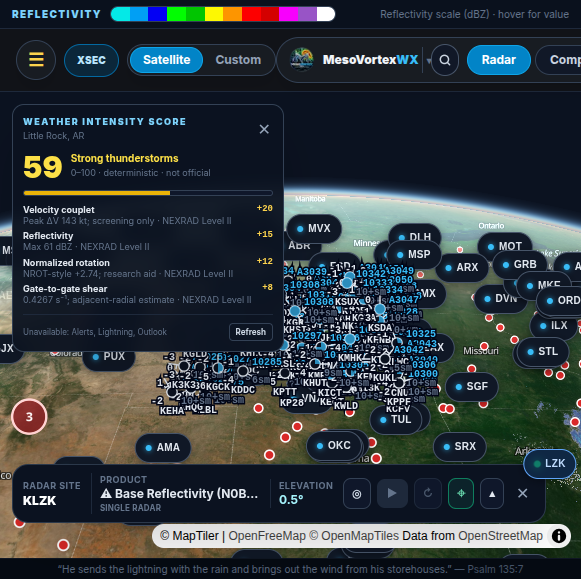
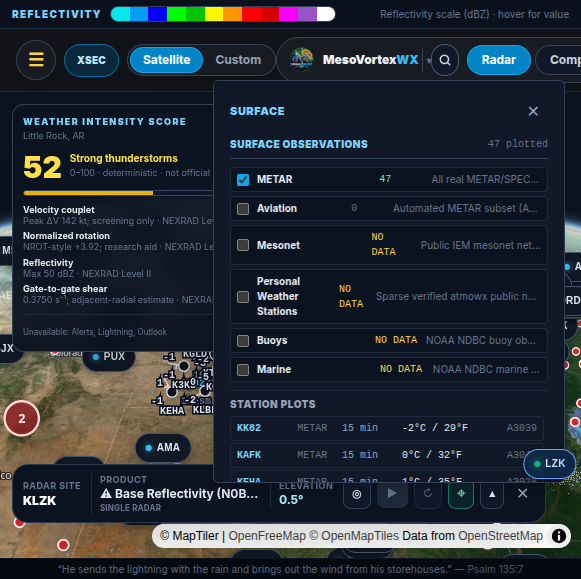
Fix AviationWeather bbox 400: round bbox and send zoom/density

diff --git a/lib/metar/surface-feed.ts b/lib/metar/surface-feed.ts
@@ -60,8 +60,16 @@ export function buildUpstreamUrl(query: SurfaceQuery): string | null {
   const url = new URL('https://aviationweather.gov/api/data/metar');
   url.searchParams.set('format', 'geojson');
   url.searchParams.set('hours', String(normalizedHours(query.hours)));
-  if (ids) url.searchParams.set('ids', ids.join(','));
-  if (bbox) url.searchParams.set('bbox', bbox.join(','));
+  if (ids) {
+    url.searchParams.set('ids', ids.join(','));
+  }
+  if (bbox) {
+    // AviationWeather requires bbox + zoom/density and rejects float noise
+    // (e.g. 31.700000000000003), so round to 3 decimals and send both params.
+    url.searchParams.set('bbox', bbox.map((n) => Number(n.toFixed(3))).join(','));
+    url.searchParams.set('zoom', '6');
+    url.searchParams.set('density', '1');
+  }
   return url.toString();
 }
 

diff --git a/docs/phase4c-surface-observations.md b/docs/phase4c-surface-observations.md
@@ -28,6 +28,10 @@ Optional fields:
 - **Visibility / pressure tendency / sea-level pressure** are shown only where reported. Pressure tendency is NDBC `PTDY` only; it is never inferred for METAR/IEM/PWS.
 - Derived relative humidity is explicitly labeled `87% (derived)` and computed only from reported temperature and dew point.
 
+### Upstream API note (AviationWeather bbox contract)
+
+AviationWeather tightened `/api/data/metar`: a `bbox` request now also requires `zoom` and `density`, and coordinates with float noise (e.g. `31.700000000000003`) are rejected with HTTP 400 (`Must specify station IDs or bounding box, zoom, and density`). `buildUpstreamUrl` rounds the bbox to 3 decimals and sends `zoom=6&density=1`, so METAR/AVIATION layers return 200 with real reports. The Phase 4C guard asserts this contract to prevent regression.
+
 ## 2. Supported station networks (plotted today)
 
 - **METAR + SPECI** (AviationWeather.gov) — METAR layer.
